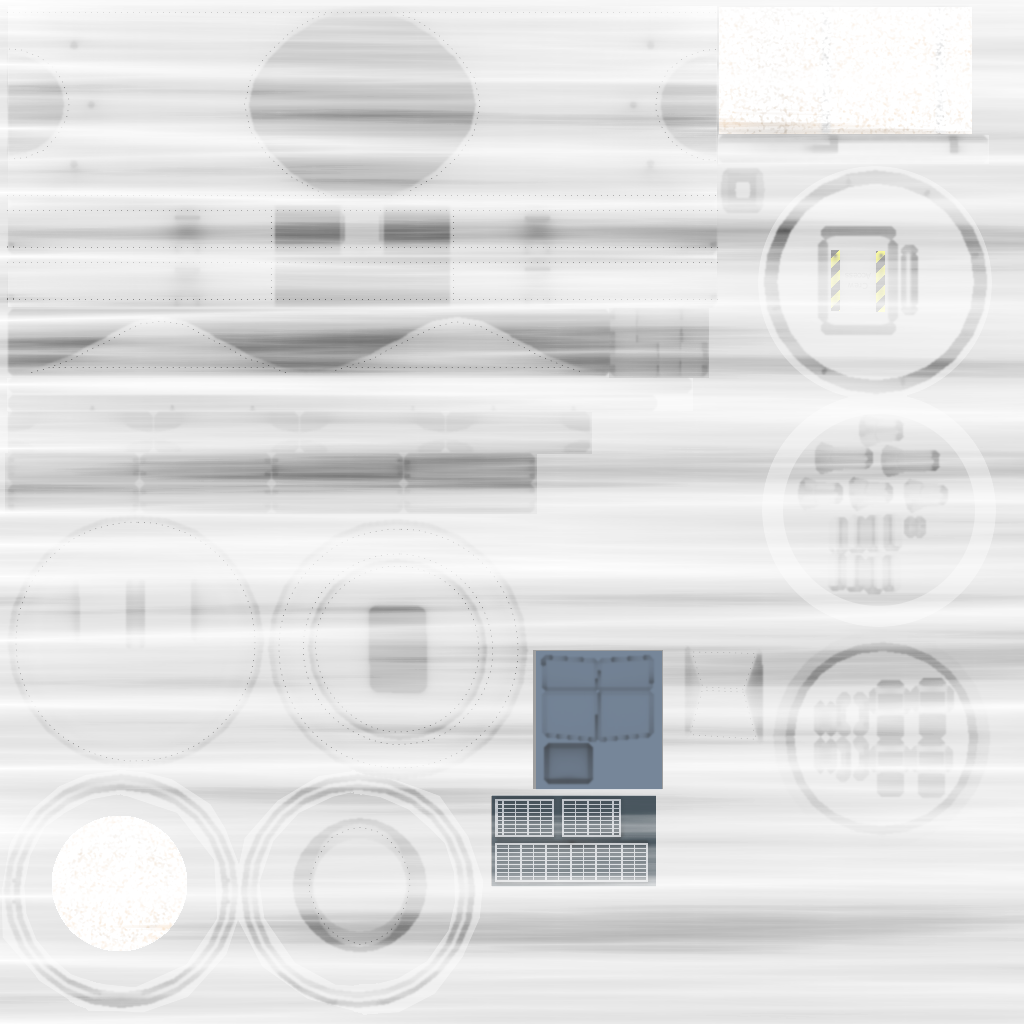
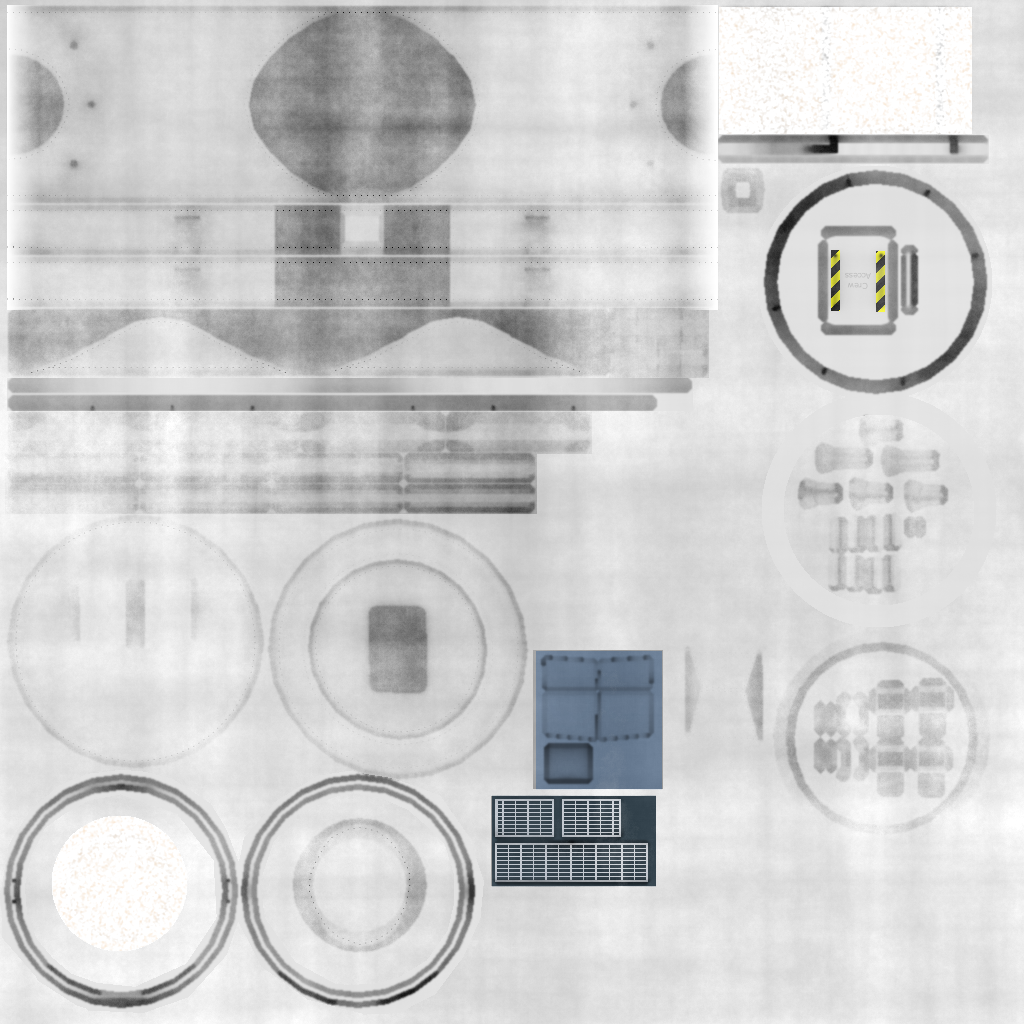
* Fix up bug in SSTULandingLeg module that would throw an exception instead of log an error related to missing wheel collider * Fix LC3-FL Leg module; was missing wheel colliders * Add updated/finished textures for:   * LC2-POD (external)   * LC3-POD (external)   * LC5-POD (external)   * LC2-ASCE   

diff --git a/Source/Module/SSTULandingLeg.cs b/Source/Module/SSTULandingLeg.cs
@@ -189,7 +189,7 @@ namespace SSTUTools
 				String[] susNameArray = suspensionTransformNames.Split(',');
 				String[] footNameArray = footColliderNames.Split(',');
 				int length = wcNameArray.Length < susNameArray.Length ? wcNameArray.Length : susNameArray.Length;
-							
+				
 				LandingLegData legData;
 				Transform suspensionTransform;
 				Transform wheelColliderTransform;
@@ -199,6 +199,7 @@ namespace SSTUTools
 				
 				for(int i = 0; i < length; i++)
 				{
+					
 					suspensionTransform = part.FindModelTransform(susNameArray[i].Trim());
 					wheelColliderTransform = part.FindModelTransform(wcNameArray[i].Trim());				
 					if(suspensionTransform==null || wheelColliderTransform==null)
@@ -206,13 +207,15 @@ namespace SSTUTools
 						print ("error locating transforms for names: "+susNameArray[i]+", "+wcNameArray[i]);
 						print ("found objects: "+suspensionTransform+", "+wheelColliderTransform); 
 						continue;
-					}
+					}					
 					wheelCollider = wheelColliderTransform.GetComponent<WheelCollider>();
 					if(wheelCollider==null)
 					{
-						print ("Wheel collider transform does not contain a valid wheel collider!  name: "+wheelCollider.name);
+						
+						print ("Wheel collider transform does not contain a valid wheel collider!  name: "+wcNameArray[i]);
+						SSTUUtils.recursePrintComponents(wheelColliderTransform.gameObject, "");
 						continue;
-					}
+					}					
 					if(i<footNameArray.Length)
 					{
 						footColliderTransform = part.FindModelTransform(footNameArray[i].Trim ());					
@@ -220,8 +223,7 @@ namespace SSTUTools
 					else
 					{
 						footColliderTransform = null;
-					}
-					
+					}					
 					legData = new LandingLegData();
 					legData.suspensionTransform = suspensionTransform;
 					legData.wheelCollider = wheelCollider;
@@ -244,7 +246,7 @@ namespace SSTUTools
 					spring.spring = wcSpring;
 					spring.damper = wcDamper;
 					spring.targetPosition = wcTarget;
-					wheelCollider.suspensionSpring = spring;//assign the new spring joint to the wheel collider		
+					wheelCollider.suspensionSpring = spring;//assign the new spring joint to the wheel collider						
 				}								
 			}
 			
@@ -436,20 +438,31 @@ namespace SSTUTools
 			
 			case LegState.DEPLOYING:
 			{
-				enableWheelColliders(false);	
-				decompressTime = 0;
-				resetSuspensionPosition();//just in case something got fubard
-				if(HighLogic.LoadedSceneIsFlight)
+				if(decompressTime>0)//decompress/retracting; just stop decompressing, disable foot colliders, and set state to deployed;
 				{
-					enableFootColliders(true);	
-					animationController.setToState(SSTUAnimState.PLAYING_FORWARD);
-				}
-				else//we are in editor
-				{	
+					decompressTime = 0;
 					legState = LegState.DEPLOYED;
-					animationController.setToState(SSTUAnimState.STOPPED_END);
+					enableFootColliders(false);
+					enableWheelColliders(true);
+					break;
 				}
-				break;
+				else
+				{
+					enableWheelColliders(false);	
+					decompressTime = 0;
+					resetSuspensionPosition();//just in case something got fubard
+					if(HighLogic.LoadedSceneIsFlight)
+					{
+						enableFootColliders(true);	
+						animationController.setToState(SSTUAnimState.PLAYING_FORWARD);
+					}
+					else//we are in editor
+					{	
+						legState = LegState.DEPLOYED;
+						animationController.setToState(SSTUAnimState.STOPPED_END);
+					}
+					break;	
+				}				
 			}
 								
 			case LegState.RETRACTING:	
